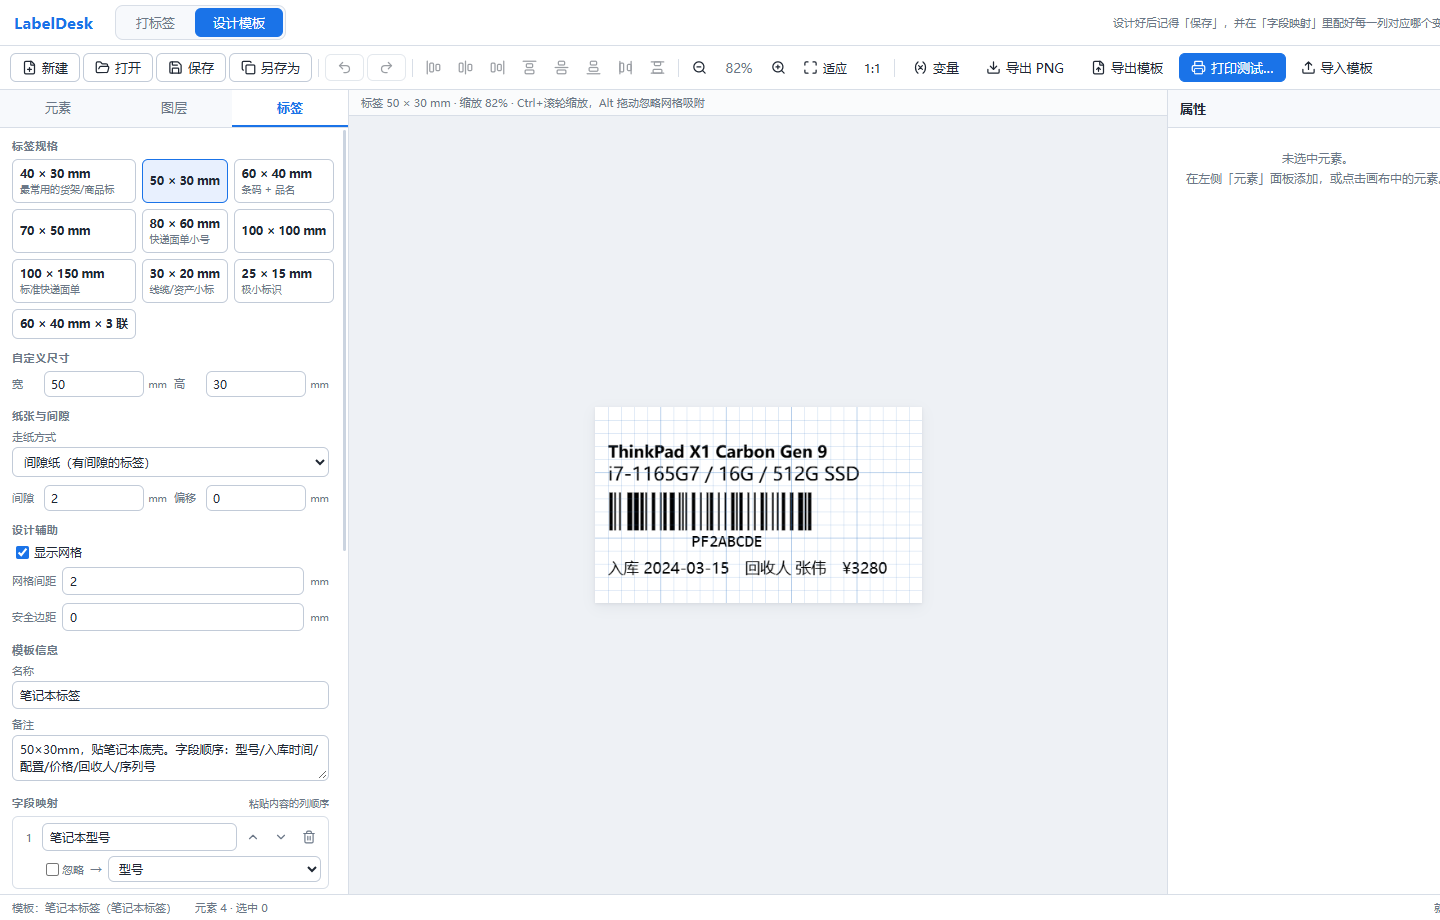
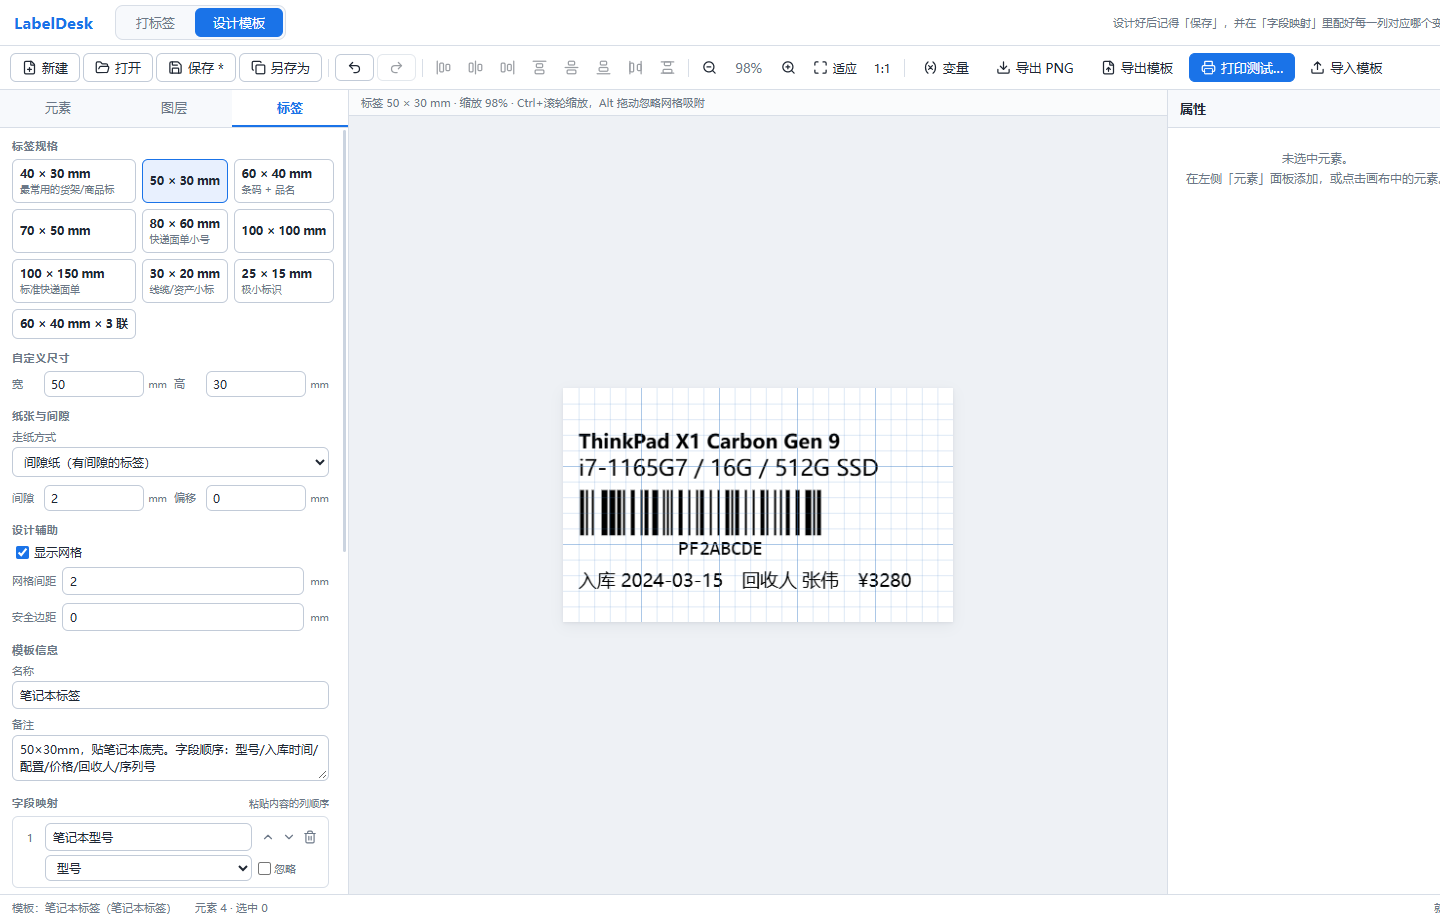
style: 字段映射改为对齐网格，变量下拉与列名左右对齐，「忽略」移到右下
- 两行共用同一套网格列宽（行号 | 列名/变量 | 忽略 | 操作），
  因此列名输入框与变量下拉框边界完全对齐
- 「忽略」从左侧移到右下角，并去掉冗余的「→」连接符
- 操作按钮（上移/下移/删除）固定在右上角
- 勾选忽略时变量下拉置灰而非消失，避免行高跳动

Changed region(s): [[0.375, 0.4261, 0.6562, 0.6696], [0.1562, 0.0609, 0.9688, 0.0913], [0.0312, 0.8826, 0.2188, 0.9739]]

diff --git a/src/components/FieldMappingEditor.tsx b/src/components/FieldMappingEditor.tsx
@@ -86,15 +86,35 @@ export function FieldMappingEditor(): JSX.Element {
         <div className="mapping-list">
           {fields.map((field, index) => (
             <div key={index} className={field.skip ? "mapping-row skipped" : "mapping-row"}>
-              <div className="mapping-row-main">
-                <span className="mapping-index">{index + 1}</span>
-                <input
-                  type="text"
-                  className="mapping-label"
-                  value={field.label}
-                  placeholder="列名，如：笔记本型号"
-                  onChange={(e) => update(index, { label: e.target.value })}
-                />
+              <span className="mapping-index">{index + 1}</span>
+              <input
+                type="text"
+                className="mapping-label"
+                value={field.label}
+                placeholder="列名，如：笔记本型号"
+                onChange={(e) => update(index, { label: e.target.value })}
+              />
+              <select
+                className="mapping-variable"
+                value={field.variable}
+                disabled={Boolean(field.skip)}
+                onChange={(e) => update(index, { variable: e.target.value })}
+              >
+                <option value="">（未选择变量）</option>
+                {availableVariables.map((v) => (
+                  <option key={v} value={v}>
+                    {v}
+                  </option>
+                ))}
+                {field.variable && !availableVariables.includes(field.variable) ? (
+                  <option value={field.variable}>{field.variable}（模板中未使用）</option>
+                ) : null}
+              </select>
+              <label className="mapping-skip" title="勾选后这一列只占位置、不填入变量">
+                <input type="checkbox" checked={Boolean(field.skip)} onChange={() => toggleSkip(index)} />
+                忽略
+              </label>
+              <div className="mapping-actions">
                 <button className="icon-button" title="上移" onClick={() => move(index, -1)}>
                   <Icon name="chevron-up" size={14} />
                 </button>
@@ -104,34 +124,6 @@ export function FieldMappingEditor(): JSX.Element {
                 <button className="icon-button" title="删除这一列" onClick={() => remove(index)}>
                   <Icon name="trash" size={14} />
                 </button>
-              </div>
-              <div className="mapping-row-sub">
-                <label className="check-row skip-toggle" title="勾选后这一列只占位置、不填入变量">
-                  <input type="checkbox" checked={Boolean(field.skip)} onChange={() => toggleSkip(index)} />
-                  忽略
-                </label>
-                {field.skip ? (
-                  <span className="hint-inline">这一列会跳过，不填入任何变量</span>
-                ) : (
-                  <>
-                    <span className="arrow">→</span>
-                    <select
-                      className="mapping-variable"
-                      value={field.variable}
-                      onChange={(e) => update(index, { variable: e.target.value })}
-                    >
-                      <option value="">（未选择变量）</option>
-                      {availableVariables.map((v) => (
-                        <option key={v} value={v}>
-                          {v}
-                        </option>
-                      ))}
-                      {field.variable && !availableVariables.includes(field.variable) ? (
-                        <option value={field.variable}>{field.variable}（模板中未使用）</option>
-                      ) : null}
-                    </select>
-                  </>
-                )}
               </div>
             </div>
           ))}

diff --git a/src/styles.css b/src/styles.css
@@ -1287,12 +1287,13 @@ input[type="radio"] {
   font-size: 12px;
 }
 
-/* ------------------------------------------- 字段映射（行式布局）
+/* ------------------------------------------- 字段映射（对齐网格）
 
-   之前用 4 列表格：列宽固有宽度之和超过侧栏宽度，table-layout:auto 会撑破容器
-   产生横向滚动条，列反而被压得更窄（「对应变量」只能显示「入库时...」）。
-   改成两行式：第一行列名 + 操作按钮，第二行「忽略」+ 变量下拉，
-   宽度完全跟随容器，不需要横向滚动。 */
+   两行共用同一套列宽，因此「列名」输入框与「变量」下拉框精确左右对齐；
+   行号在左，操作按钮在右上，忽略在右下。
+
+   之前用过 4 列表格：列宽固有宽度之和超过侧栏宽度，table-layout:auto 会撑破
+   容器产生横向滚动条，列反而被压得更窄。网格方案宽度完全随容器。 */
 
 .mapping-list {
   display: flex;
@@ -1302,9 +1303,14 @@ input[type="radio"] {
 }
 
 .mapping-row {
+  display: grid;
+  /* 行号 | 列名/变量（两行同宽）| 忽略 | 操作 */
+  grid-template-columns: 18px minmax(0, 1fr) auto auto;
+  align-items: center;
+  gap: 4px 6px;
   border: 1px solid var(--border);
   border-radius: var(--radius);
-  padding: 6px 7px;
+  padding: 6px 8px;
   background: #fff;
   min-width: 0;
 }
@@ -1313,15 +1319,9 @@ input[type="radio"] {
   background: var(--panel-2);
 }
 
-.mapping-row-main {
-  display: flex;
-  align-items: center;
-  gap: 4px;
-  min-width: 0;
-}
-
 .mapping-index {
-  flex: 0 0 18px;
+  grid-row: 1;
+  grid-column: 1;
   text-align: center;
   font-size: 11px;
   color: var(--text-dim);
@@ -1333,42 +1333,62 @@ input[type="radio"] {
 }
 
 .mapping-label {
-  flex: 1;
+  grid-row: 1;
+  grid-column: 2;
   min-width: 0;
-  padding: 3px 6px;
+  padding: 3px 7px;
   font-size: 12px;
 }
 
-.mapping-row-sub {
+/* 与 .mapping-label 同属第 2 列，所以左右边界完全对齐 */
+.mapping-variable {
+  grid-row: 2;
+  grid-column: 2;
+  min-width: 0;
+  padding: 3px 7px;
+  font-size: 12px;
+}
+
+.mapping-variable:disabled {
+  background: var(--panel-2);
+  color: var(--text-dim);
+}
+
+/* 忽略：右下角 */
+.mapping-skip {
+  grid-row: 2;
+  grid-column: 3;
   display: flex;
   align-items: center;
-  gap: 6px;
-  margin-top: 5px;
-  padding-left: 22px;
-  min-width: 0;
-}
-
-.mapping-row-sub .arrow {
-  color: var(--text-dim);
-  font-size: 12px;
-}
-
-.mapping-variable {
-  flex: 1;
-  min-width: 0;
-  padding: 3px 6px;
-  font-size: 12px;
-}
-
-.skip-toggle {
-  margin-bottom: 0;
-  flex: 0 0 auto;
+  gap: 3px;
+  margin: 0;
   font-size: 11px;
   color: var(--text-dim);
+  white-space: nowrap;
+  cursor: pointer;
 }
 
-.skip-toggle input {
-  margin-right: 3px;
+.mapping-skip input {
+  margin: 0;
+}
+
+.mapping-row.skipped .mapping-skip {
+  color: var(--text);
+  font-weight: 500;
+}
+
+/* 操作按钮：右上角，跨后两列并靠右 */
+.mapping-actions {
+  grid-row: 1;
+  grid-column: 3 / span 2;
+  display: flex;
+  align-items: center;
+  gap: 1px;
+  justify-self: end;
+}
+
+.mapping-actions .icon-button {
+  padding: 2px 3px;
 }
 
 /* ---------------------------------------------------------- 滚动条 */
